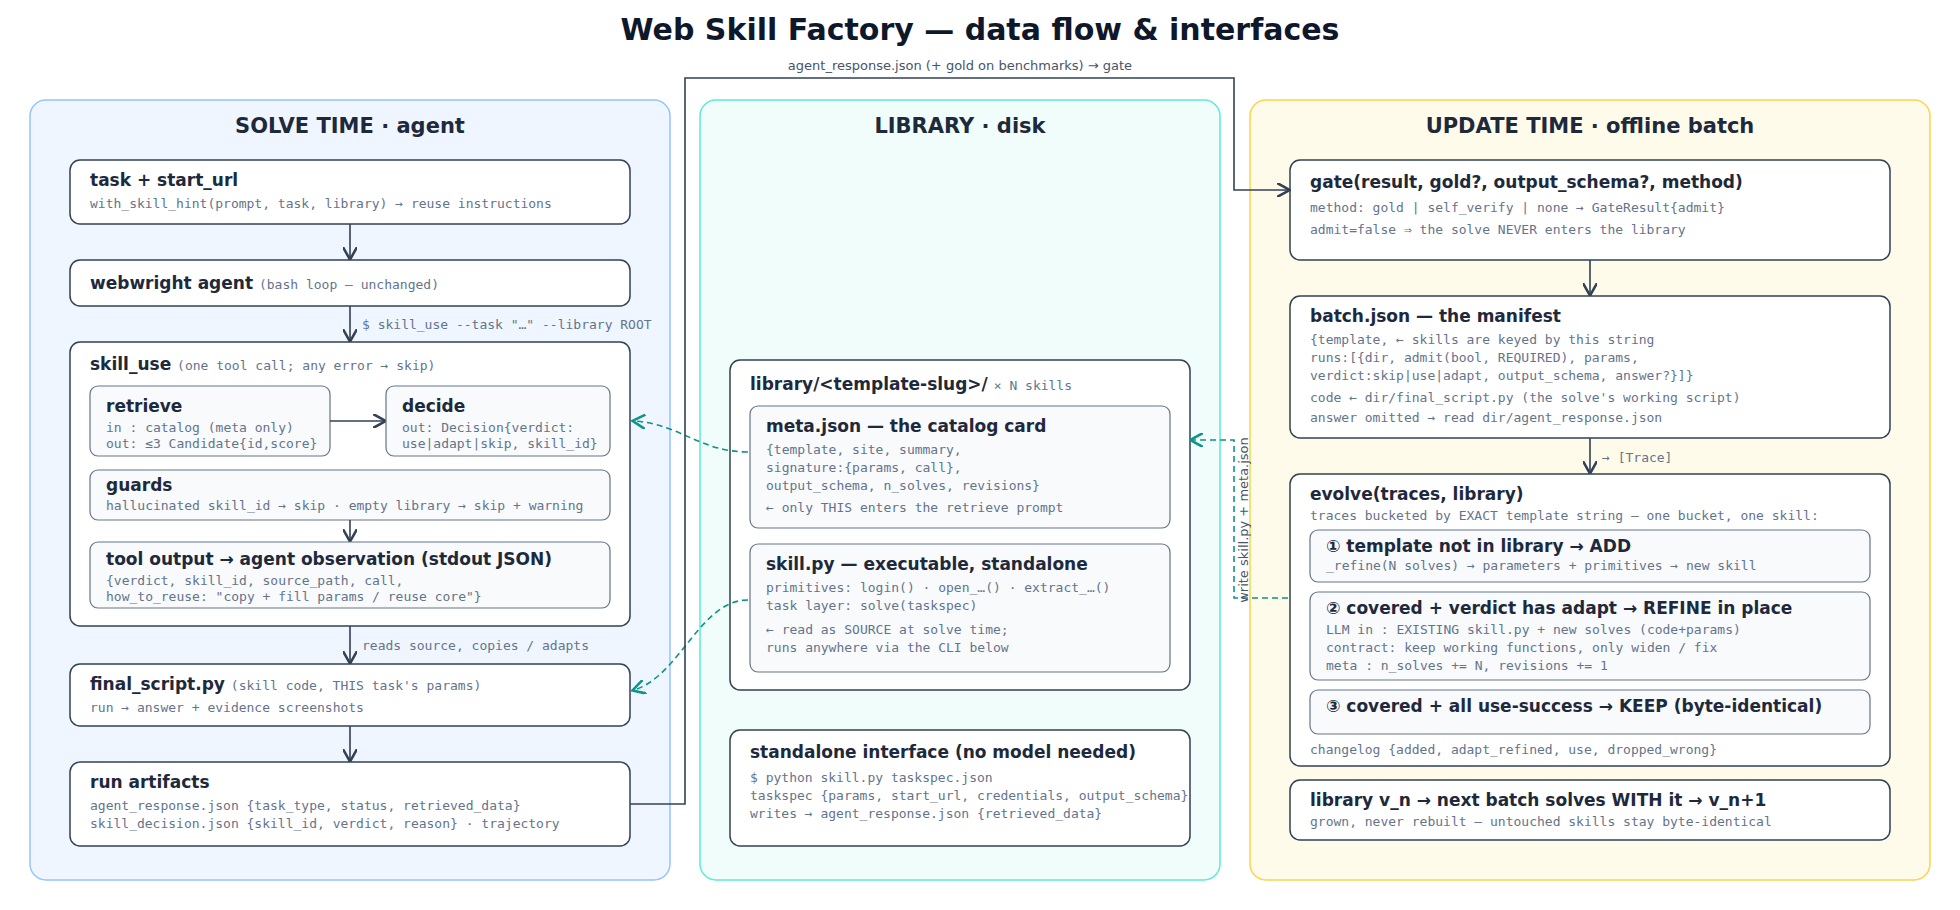
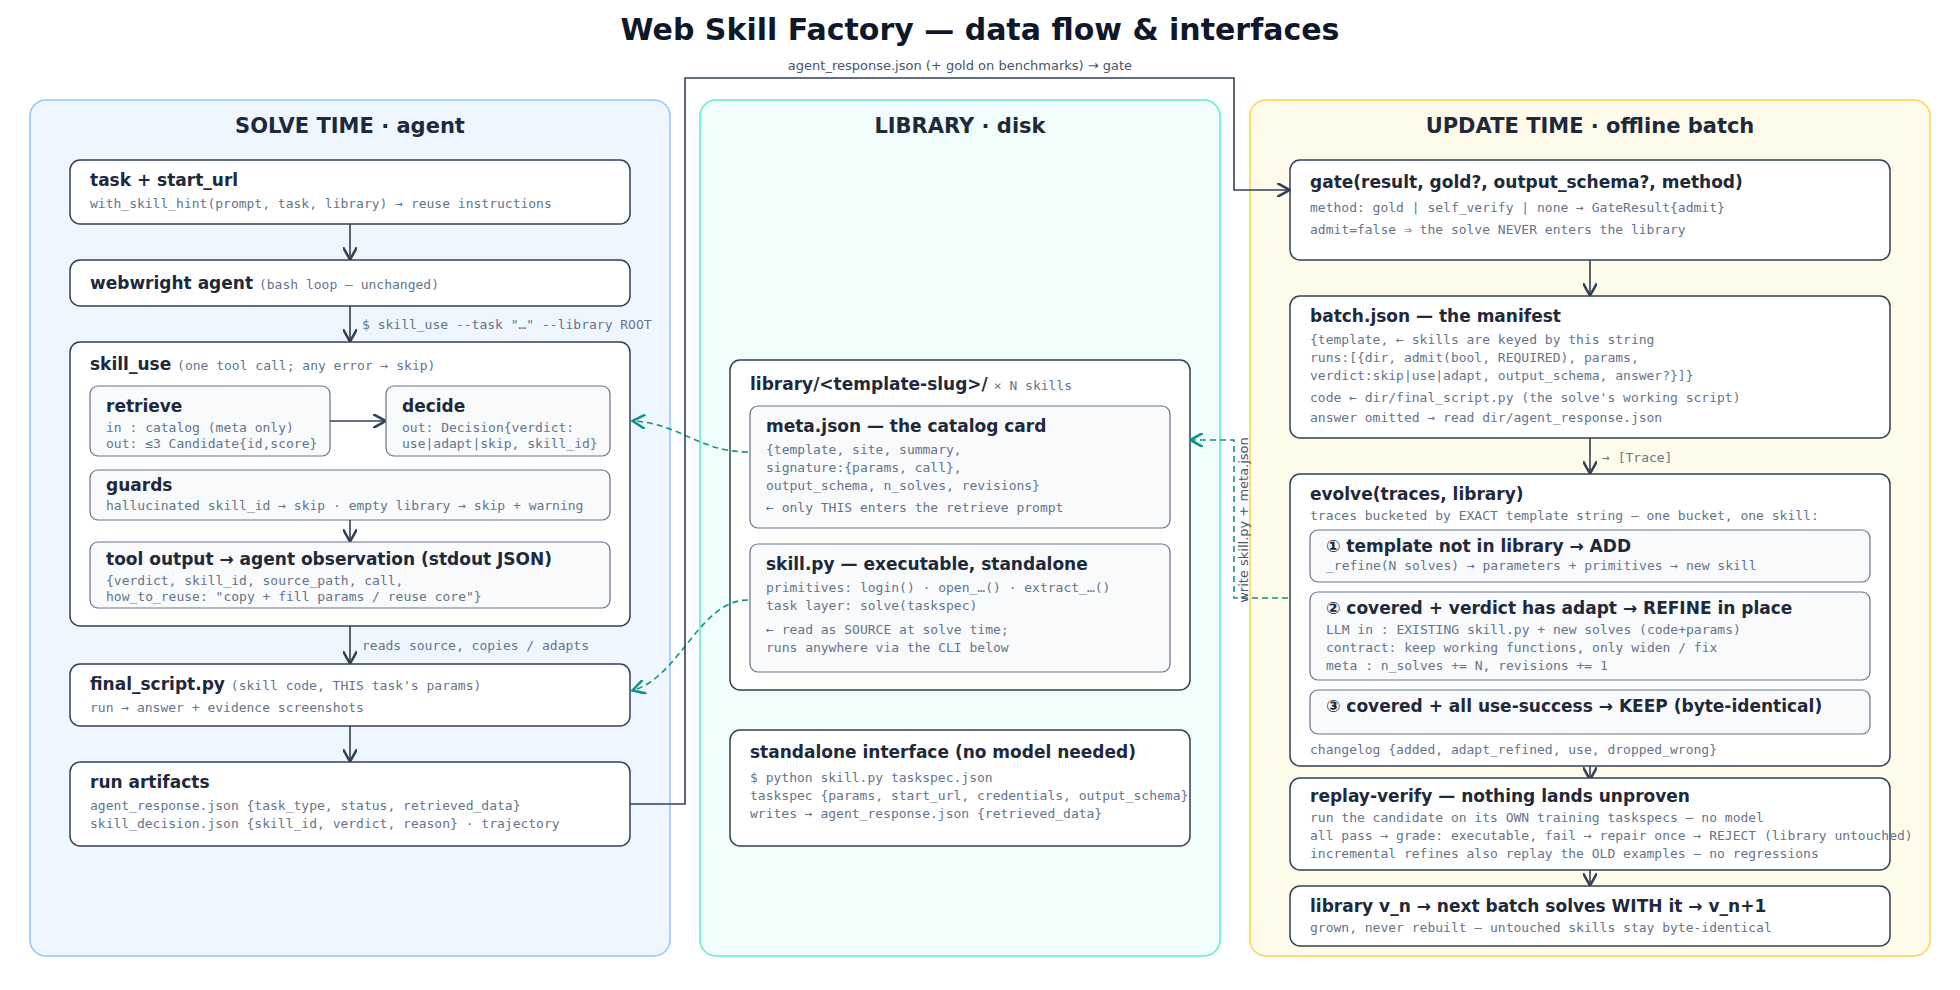
README: cost table to quickstart doc, richer Design; diagram gains replay-verify
The measured-cost table is one example, not a landing claim — it lives in
docs/quickstart.md (already there). Design grows two beats pulled from the
project's discussions: parameters-are-evidence / primitives-are-the-product,
and nothing-lands-unproven (why input gating isn't enough, why the proof is
model-free replay, and what the executable/reference grades mean). The
pipeline diagram's UPDATE lane now shows the replay-verify stage between
evolve and the library write-back, including the regression replay on
incremental refines.

diff --git a/src/webwright/skill_factory/README.md b/src/webwright/skill_factory/README.md
@@ -59,17 +59,6 @@ On a custom OpenAI-compatible gateway, also `export OPENAI_ENDPOINT=... OPENAI_M
 Full tutorial — the loop spelled out, gateway setup, running skills without the agent:
 **[docs/quickstart.md](docs/quickstart.md)**
 
-## 💰 What it costs (measured)
-
-Same unseen route, minutes apart:
-
-|           | from scratch | with the library | the skill, standalone |
-|-----------|--------------|------------------|-----------------------|
-| steps     | 17           | 15               | — (no agent)          |
-| wall time | 8.9 min      | **5.2 min**      | **32 s, no model**    |
-
-Exploration is paid once — standalone repeats need no model at all.
-
 ## 📊 Results
 
 **Setting** — WebArena, 10 retrieve-type task templates across 3 self-hosted sites
@@ -101,6 +90,19 @@ vary; the factory parameterizes across solves from the differences *actually obs
 verified solves of the same template turns observed differences into parameters and
 recurring patterns into primitives — different runs' strategies become fallbacks, and
 what lands is the best algorithm the solves discovered.
+
+**Parameters are evidence, primitives are the product.** Parameters aren't guessed up
+front — they are the differences actually observed between solves. The expensive core is
+factored into named primitives (`login()`, `open_grid()`, `extract_rows()`) with a thin
+task layer on top, so future tasks can reuse and compose the pieces even when the final
+step differs.
+
+**Nothing lands unproven.** The admission gate checks the *inputs*, but distillation
+itself can introduce bugs — and an agent reading a broken skill as source will quietly
+work around them, so agent-in-loop numbers alone can't certify a library. The proof is
+model-free execution: a skill must replay its own training taskspecs standalone and
+reproduce the answers before it lands, and every skill carries its grade —
+`executable` (proved) or `reference` (a prior the agent may still read).
 
 **Growth never breaks what works.** New templates add skills, new solves refine existing
 ones in place (regression-replayed against their stored training examples), untouched
